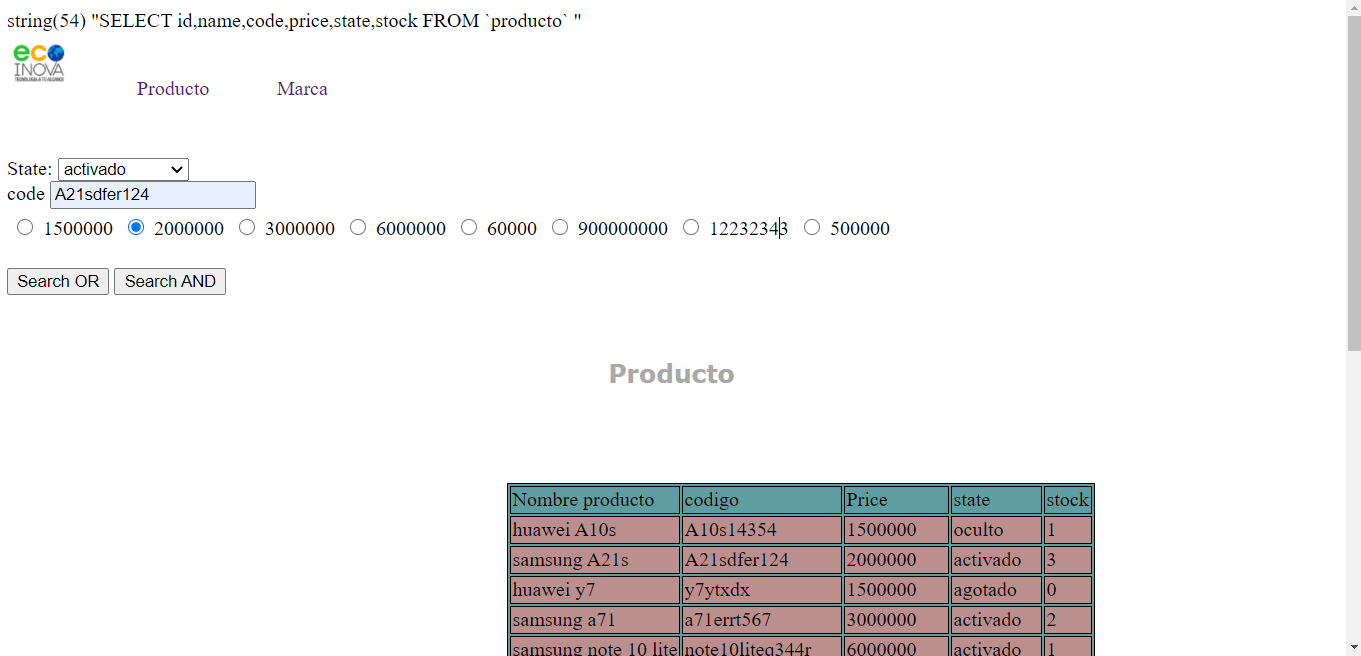
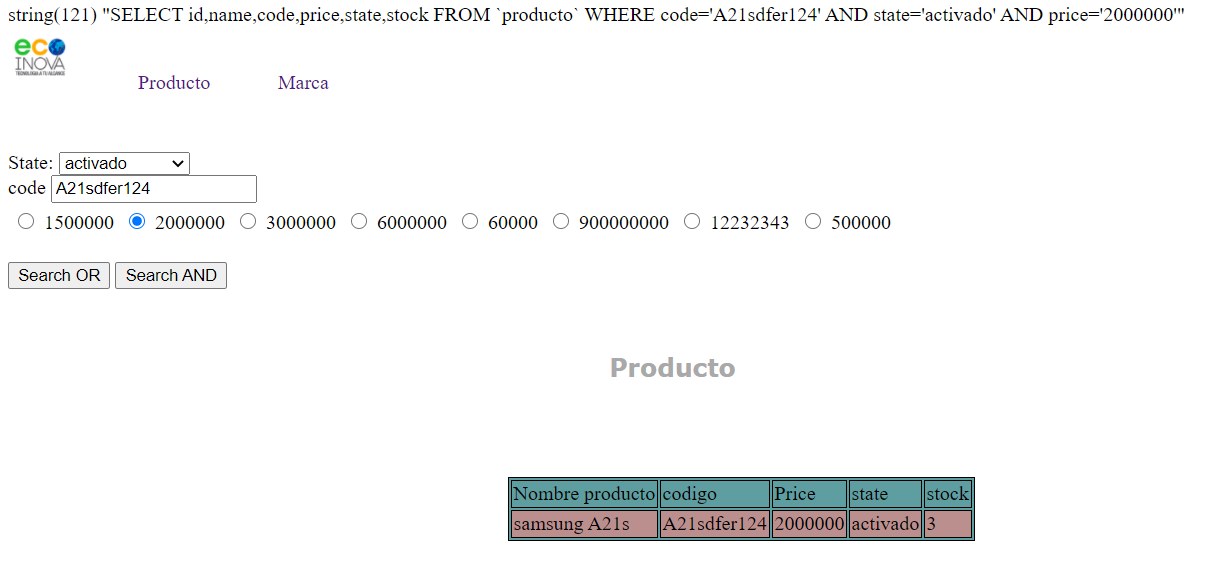
db-search

diff --git a/reports_producto.php b/reports_producto.php
@@ -197,14 +197,49 @@ if ($_SERVER["REQUEST_METHOD"] == "POST") {
        
 
       <br>
-    <?php 
-    //if($_SERVER["REQUEST_METHOD"] == "POST"){
-     //$price= $_REQUEST['price'];?>
+      <?php if(isset($price)){ ?>
+<input type="radio" value="1500000" name="price"  class="radio" <?php if($price == "1500000") echo "checked" ?> >1500000 
+    <input type="radio" value="2000000" name="price" class="radio" <?php if($price == "2000000") echo "checked" ?>>2000000
+    <input type="radio" value="3000000" name="price" class="radio" <?php if($price == "3000000") echo "checked" ?>>3000000
+    <input type="radio" value="6000000" name="price" class="radio" <?php if($price == "6000000") echo "checked" ?>>6000000 
+    <input type="radio" value="60000" name="price" class="radio" <?php if($price == "60000") echo "checked" ?>>60000
+    <input type="radio" value="900000000" name="price" class="radio" <?php if($price == "900000000") echo "checked" ?>>900000000
+    <input type="radio" value="12232343" name="price" class="radio" <?php if($price == "12232343") echo "checked" ?>>12232343
+    <input type="radio" value="500000" name="price" class="radio" <?php if($price == "500000") echo "checked" ?>>500000<br> 
+      <?php }else{?>
+      <input type="radio" value="1500000" name="price" class="radio" >1500000
+     <input type="radio" value="2000000" name="price" class="radio">2000000
+     <input type="radio" value="3000000" name="price" class="radio">3000000
+     <input type="radio" value="6000000 " name="price" class="radio">6000000 
+     <input type="radio" value="60000" name="price" class="radio">60000
+     <input type="radio" value="900000000" name="price" class="radio">900000000
+     <input type="radio" value="12232343" name="price" class="radio">12232343
+     <input type="radio" value="500000" name="price" class="radio">500000<br>
+      
+      <?php } ?>
+      
+     <?php //} else {?>
+     <!--<input type="radio" value="1500000" name="price"  class="radio"  >1500000
+    <input type="radio" value="2000000" name="price" class="radio">2000000
+    <input type="radio" value="3000000" name="price" class="radio">3000000
+    <input type="radio" value="6000000 " name="price" class="radio">6000000 
+    <input type="radio" value="60000" name="price" class="radio">60000
+    <input type="radio" value="900000000" name="price" class="radio">900000000
+    <input type="radio" value="12232343" name="price" class="radio">12232343
+    <input type="radio" value="500000" name="price" class="radio">500000<br>-->
+     <?php //} ?>
+    
+    
+  <?php //}
+  //if($_SERVER["REQUEST_METHOD"] == "POST"){
+  // $price=$_REQUEST['price'];
+     ?>
+     
      <?php //$arr_precio=array($price); 
     //for ($i=0; $i < count($arr_precio) ; $i++) { 
      //if($price == $arr_precio[$i]){?>
-    <!--<input type="radio" value="<?php //if($arr_precio[$i]==1500000){echo $arr_precio[$i]; }else{echo "1500000";} ?>" <?php //if($arr_precio[$i]==1500000){?>checked<?php //} ?> name="price" class="radio" ><?php //if($arr_precio[$i]==1500000){echo $arr_precio[$i]; }else{echo "1500000";} ?>
-    <input type="radio" value="<?php //if($arr_precio[$i]==2000000){echo $arr_precio[$i]; }else{echo "2000000";} ?>"<?php //if($arr_precio[$i]==2000000){?>checked<?php //} ?> name="price" class="radio"><?php //if($arr_precio[$i]==2000000){echo $arr_precio[$i];  }else{echo "2000000";} ?>
+     <!--<input type="radio" value="<?php //if($arr_precio[$i]==1500000){echo $arr_precio[$i]; }else{echo "1500000";} ?>" <?php //if($arr_precio[$i]==1500000){?>checked<?php //} ?> name="price" class="radio" ><?php //if($arr_precio[$i]==1500000){echo $arr_precio[$i]; }else{echo "1500000";} ?>
+   <input type="radio" value="<?php //if($arr_precio[$i]==2000000){echo $arr_precio[$i]; }else{echo "2000000";} ?>"<?php //if($arr_precio[$i]==2000000){?>checked<?php //} ?> name="price" class="radio"><?php //if($arr_precio[$i]==2000000){echo $arr_precio[$i];  }else{echo "2000000";} ?>
     <input type="radio" value="<?php //if($arr_precio[$i]==3000000){echo $arr_precio[$i]; }else{echo "3000000";} ?>"<?php //if($arr_precio[$i]==3000000){?>checked<?php //} ?> name="price" class="radio"><?php //if($arr_precio[$i]==3000000){echo $arr_precio[$i];  }else{echo "3000000";} ?>
     <input type="radio" value="<?php //if($arr_precio[$i]==6000000 ){echo $arr_precio[$i]; }else{echo "6000000 ";} ?>"<?php //if($arr_precio[$i]==6000000 ){?>checked<?php //} ?> name="price" class="radio"><?php //if($arr_precio[$i]==6000000 ){echo $arr_precio[$i];  }else{echo "6000000 ";} ?>
     <input type="radio" value="<?php //if($arr_precio[$i]==60000 ){echo $arr_precio[$i]; }else{echo "60000 ";} ?>"<?php //if($arr_precio[$i]==60000 ){?>checked<?php //} ?> name="price" class="radio"><?php //if($arr_precio[$i]==60000 ){echo $arr_precio[$i];  }else{echo "60000 ";} ?>
@@ -216,14 +251,30 @@ if ($_SERVER["REQUEST_METHOD"] == "POST") {
         
 <?php //} ?>
      <?php //}else { ?>
-     <input type="radio" value="1500000" name="price" class="radio" >1500000
+    
+      <?php //if ($_REQUEST["price"] == "") {
+  // collect value of input field
+  //$price = $_REQUEST['price'];?>
+  
+  <?php //if($price == 1500000){?>
+    <!--<input type="radio" value="<?php //echo $price ?>" name="price" class="radio" checked><?php //echo $price ?>
+    <input type="radio" value="2000000" name="price" class="radio">2000000
+    <input type="radio" value="3000000" name="price" class="radio">3000000
+    <input type="radio" value="6000000 " name="price" class="radio">6000000 
+    <input type="radio" value="60000" name="price" class="radio">60000
+    <input type="radio" value="900000000" name="price" class="radio">900000000
+    <input type="radio" value="12232343" name="price" class="radio">12232343
+    <input type="radio" value="500000" name="price" class="radio">500000 <br>-->
+  <?php //} ?>
+  <?php //}else{?>
+    <!-- <input type="radio" value="1500000" name="price" class="radio" >1500000
      <input type="radio" value="2000000" name="price" class="radio">2000000
      <input type="radio" value="3000000" name="price" class="radio">3000000
      <input type="radio" value="6000000 " name="price" class="radio">6000000 
      <input type="radio" value="60000" name="price" class="radio">60000
      <input type="radio" value="900000000" name="price" class="radio">900000000
      <input type="radio" value="12232343" name="price" class="radio">12232343
-     <input type="radio" value="500000" name="price" class="radio">500000<br>
+     <input type="radio" value="500000" name="price" class="radio">500000<br>-->
      <?php //}?>
     <br>
     

diff --git a/radio.php b/radio.php
@@ -95,3 +95,26 @@
              <input type="radio" value="<?php if($atributo==3){echo $atributo; }else{echo "3";} ?>" <?php if($atributo==3){?>checked<?php } ?> name="price" class="radio" ><?php if($atributo==3){echo $atributo; }else{echo "3";} ?>
              <input type="radio" value="<?php if($atributo==4){echo $atributo; }else{echo "4";} ?>" <?php if($atributo==4){?>checked<?php } ?> name="price" class="radio" ><?php if($atributo==4){echo $atributo; }else{echo "4";} ?>
              <input type="radio" value="<?php if($atributo==5){echo $atributo; }else{echo "5";} ?>" <?php if($atributo==5){?>checked<?php } ?> name="price" class="radio" ><?php if($atributo==5){echo $atributo; }else{echo "5";} ?>
+  ----------------------------------------------------------------------------------------------------------------------------------------------------------------------------------------------------------------------------------------------------
+  <?php 
+    if($_SERVER["REQUEST_METHOD"] == "POST"){
+     $price= $_REQUEST['$price'];?>
+     <?php //$$producto[$i]=array($$producto[$i]); 
+    for ($i=0; $i < count($producto) ; $i++) { 
+     if($producto[$i] == 1500000){?>
+    <input type="radio" value="<?php echo $producto[$i]['id']; ?>"  name="price" class="radio" checked><?php echo $producto[$i]['price'];  ?>
+    
+    
+      <?php } ?>
+        
+<?php } ?>
+     <?php } else { ?>
+     <input type="radio" value="1500000" name="price" class="radio" >1500000
+     <input type="radio" value="2000000" name="price" class="radio">2000000
+     <input type="radio" value="3000000" name="price" class="radio">3000000
+     <input type="radio" value="6000000 " name="price" class="radio">6000000 
+     <input type="radio" value="60000" name="price" class="radio">60000
+     <input type="radio" value="900000000" name="price" class="radio">900000000
+     <input type="radio" value="12232343" name="price" class="radio">12232343
+     <input type="radio" value="500000" name="price" class="radio">500000<br>
+      <?php }  ?>           

diff --git a/reports_marca.php b/reports_marca.php
@@ -99,7 +99,7 @@ $host="localhost";
 
   $cnx=new PDO("mysql:host=$host;dbname=$dbname",$username,$password);
    //construir sql sentence
-    $sql="SELECT a.id,p.name as producto_name,m.id,m.name as marca_name,t.name as atributo_name,a.descuento FROM producto as p JOIN allocation a ON p.id=a.id_producto JOIN marca m ON a.id_marca=m.id JOIN atributos t ON a.id_atributo=t.id $where ORDER BY p.name ASC";
+    $sql="SELECT a.id,p.name as producto_name,m.id,m.name as marca_name,t.id,t.name as atributo_name,a.descuento FROM producto as p JOIN allocation a ON p.id=a.id_producto JOIN marca m ON a.id_marca=m.id JOIN atributos t ON a.id_atributo=t.id $where ORDER BY p.name ASC";
    var_dump($sql);
   //preparar  Sql sentence
     $q=$cnx->prepare($sql);
@@ -211,17 +211,22 @@ $sql="select id,name from producto";
       <br>
     <?php
      
+   
      for($i=0;$i<count($atributo);$i++){
       ?> 
       
+      <input type="radio" value="<?php echo $atributo[$i]['id'] ?> " name="atributo" <?php if($atributo[$i]['id'] == $atributo ) echo "checked" ?> ><?php echo $atributo[$i]['name'] ?>
+      
        
-      <input type="radio" value="<?php echo $atributo[$i]["id"]?>" name="atributo" class="radio" ><?php echo $atributo[$i]["name"]?> 
+       
+       
+      <!--<input type="radio" value="<?php //echo $atributo[$i]["id"]?>" name="atributo" class="radio"   ><?php //echo $atributo[$i]["name"]?>--> 
     
     
     <?php
      }
     
-    ?><br>
+    ?> <br>
   
      
      <?php
